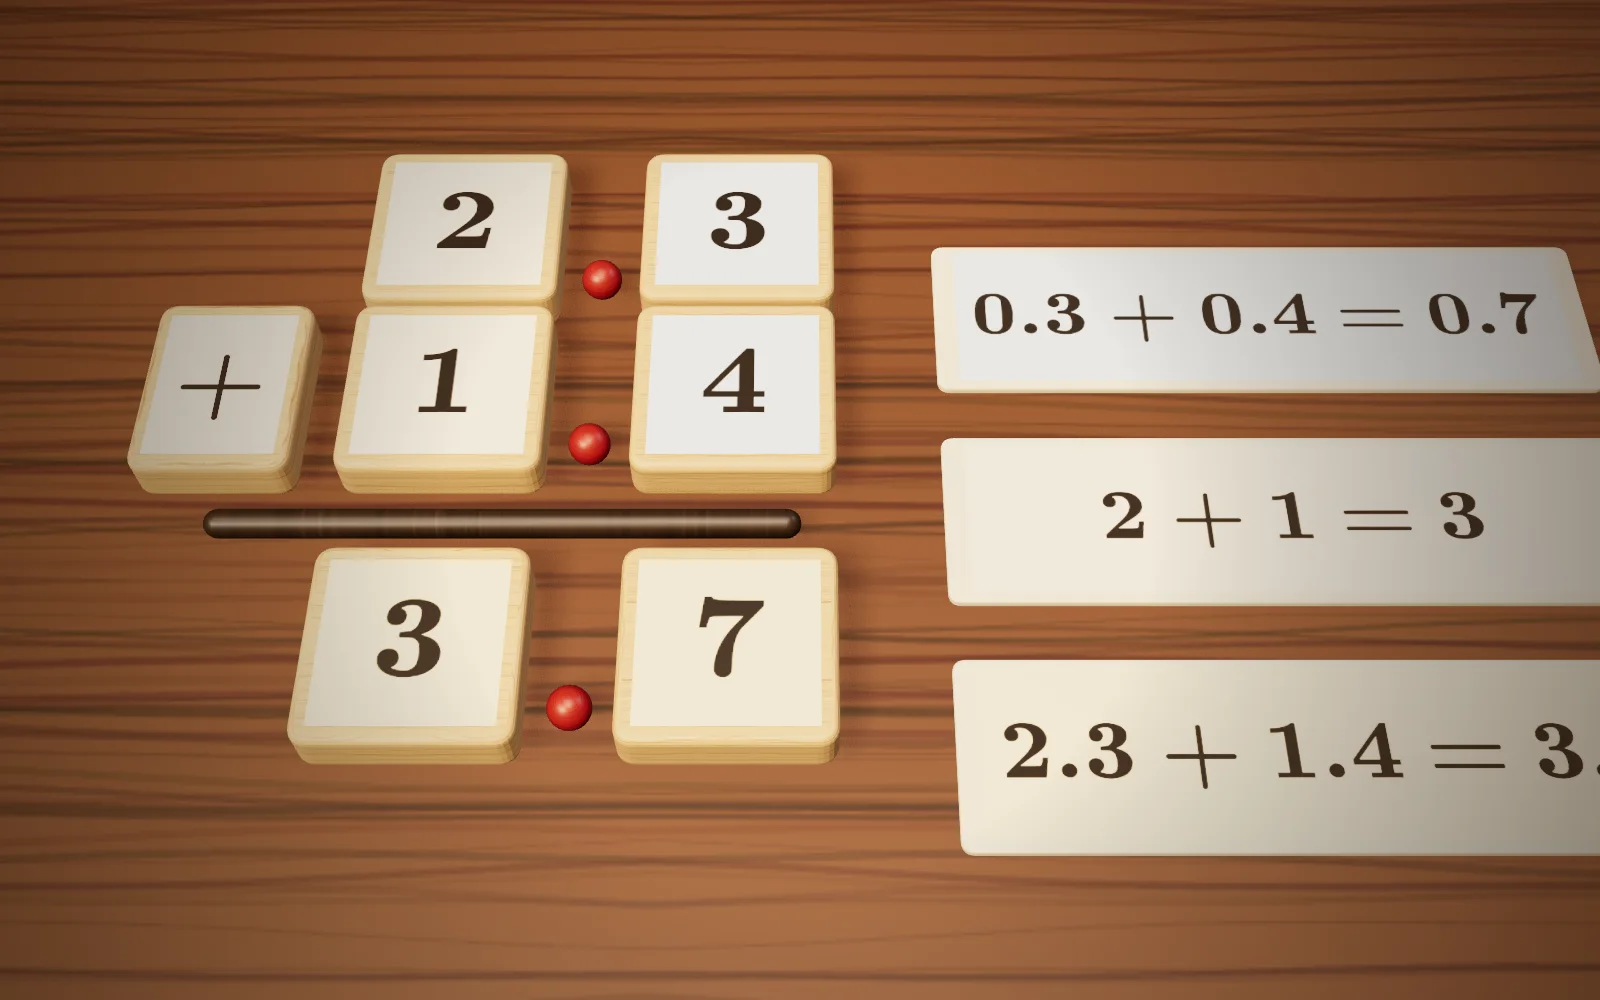
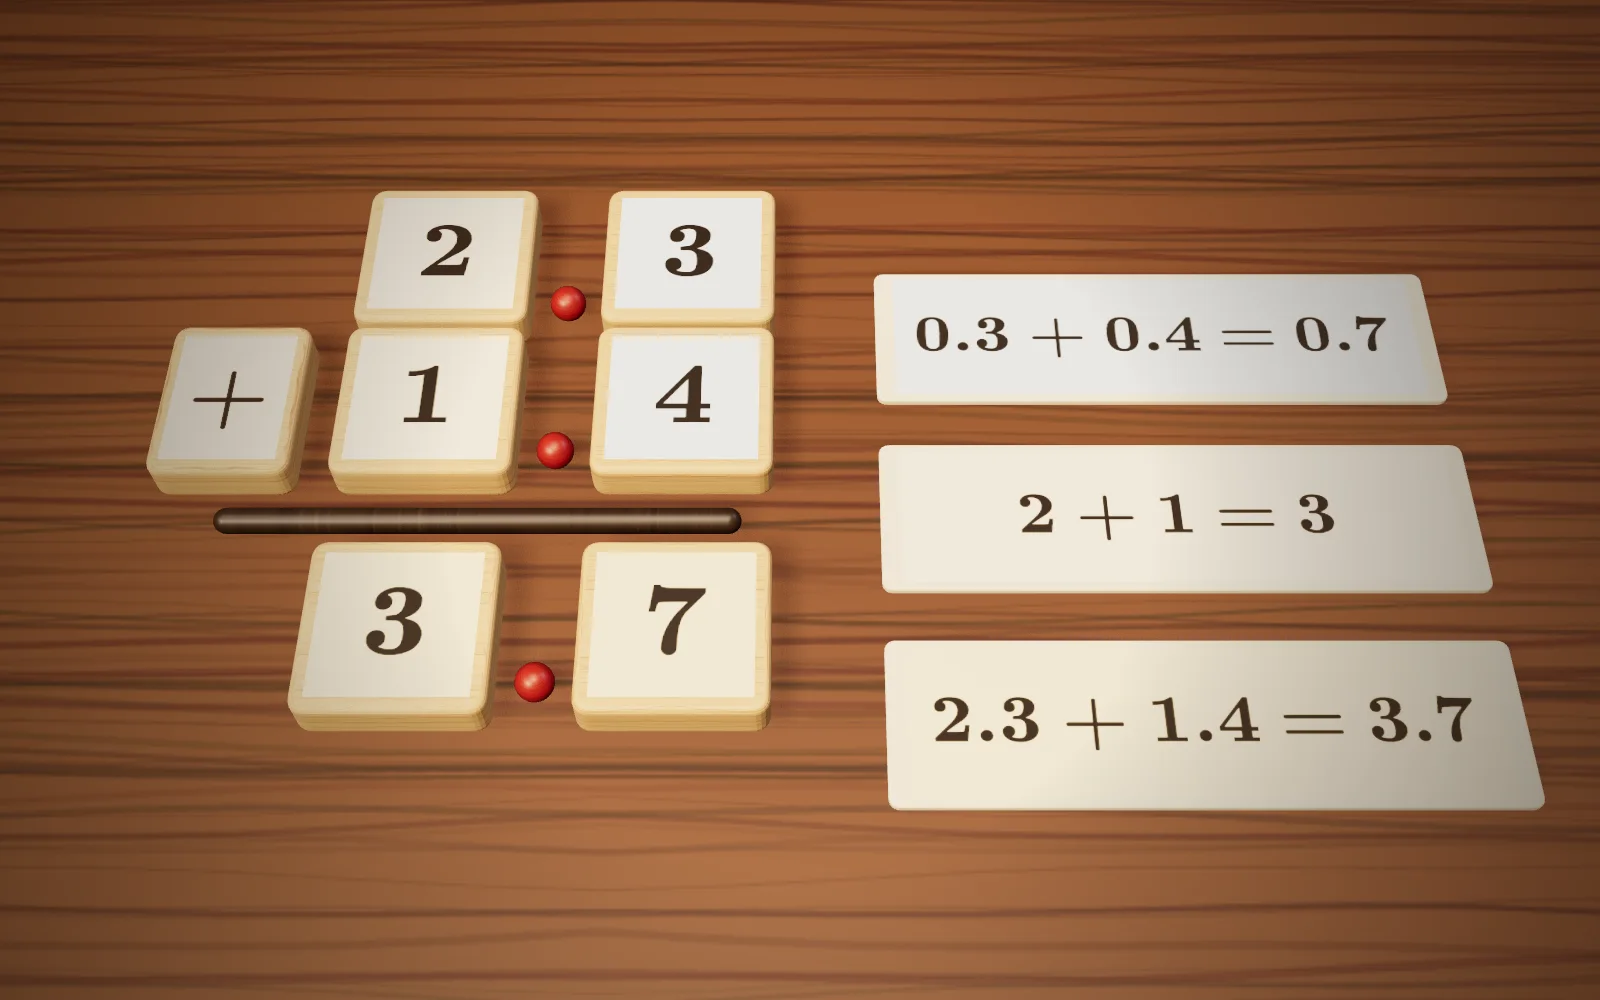
수의 마법 — 초등 대표 3D 장면 E3(과정 17~24) 완료, 초등 24개 포함 3D 대표 그림 124개
Claude-Session: https://claude.ai/code/session_01T6HCktzZTCy63PeQAnPr61

diff --git a/number_magic/app/hero3d/scenes-e3.js b/number_magic/app/hero3d/scenes-e3.js
@@ -22,7 +22,7 @@ export const SCENES_E3 = {
   ]},
     build(k){
     const { THREE, scene } = k;
-    k.frame([0.5, 0, -0.35], 5.4, 58);
+    k.frame([0.75, 0, -0.35], 6.1, 58);
     k.table();
     /* 세로셈: 자연수 칸(x=-0.85)·소수점(구슬, x=-0.3)·소수 칸(x=0.25) */
     const XW = -0.85, XP = -0.3, XT = 0.25, ZS = [-1.55, -0.75, 0.35], TO = { w:0.72, d:0.72, h:0.2, fs:0.46 };
@@ -35,9 +35,9 @@ export const SCENES_E3 = {
     k.rod(k.lacquer('#3a2a1e'), -0.6, -0.2, 0);                     /* 세로셈의 가로줄 */
     const w3 = tileF(k, '3', XW, ZS[2], Object.assign({}, TO, ans)), t3 = tileF(k, '7', XT, ZS[2], Object.assign({}, TO, tenth, ans)); point(ZS[2]);
     /* 오른쪽: 부분 덧셈 카드 */
-    const cT = cardF(k, ['0.3 + 0.4 = 0.7'], 2.35, -1.2, { w:2.6, d:0.7, fs:0.32, bg:'#dbe7f2' });
-    const cW = cardF(k, ['2 + 1 = 3'], 2.35, -0.25, { w:2.6, d:0.7, fs:0.32 });
-    const cA = cardF(k, ['2.3 + 1.4 = 3.7'], 2.35, 0.7, { w:2.6, d:0.7, fs:0.32, bg:'#f1e0b8' });
+    const cT = cardF(k, ['0.3 + 0.4 = 0.7'], 2.35, -1.2, { w:2.5, d:0.7, fs:0.3, bg:'#dbe7f2' });
+    const cW = cardF(k, ['2 + 1 = 3'], 2.35, -0.25, { w:2.5, d:0.7, fs:0.3 });
+    const cA = cardF(k, ['2.3 + 1.4 = 3.7'], 2.35, 0.7, { w:2.5, d:0.7, fs:0.3, bg:'#f1e0b8' });
     /* 움직임: 소수 칸 3·4 → 0.7 카드·답 7 → 자연수 칸 2·1 → 2+1=3 카드·답 3 → 답 줄 전체 */
     k.onFrame(t => { const p = cyc(t, 8);
       t1.position.y = 0.2 * hop(p, 0.14, 0.26); t2.position.y = 0.2 * hop(p, 0.18, 0.3);
@@ -62,7 +62,7 @@ export const SCENES_E3 = {
     /* 자리 칸: 일(x=-0.85) · 소수 첫째(0) · 소수 둘째(0.85). 소수점은 붉은 구슬 */
     const XS = [-0.85, 0, 0.85], TO = { w:0.72, d:0.8, h:0.22, fs:0.5 }, Z1 = -1.35, Z2 = -0.3;
     const bead = k.lacquer('#9b2a1c');
-    const point = (x, z) => { const m = new THREE.Mesh(new THREE.SphereGeometry(0.09, 24, 16), bead); m.castShadow = true; m.position.set(x, 0.09, z + 0.26); scene.add(m); return m; };
+    const point = (x, z) => { const m = new THREE.Mesh(new THREE.SphereGeometry(0.11, 24, 16), bead); m.castShadow = true; m.position.set(x, 0.11, z + 0.3); scene.add(m); return m; };
     tileF(k, '4', XS[0], Z1, TO); tileF(k, '3', XS[1], Z1, TO);
     const p1 = point(-0.425, Z1);
     const zeros = [tileF(k, '0', XS[0], Z2, Object.assign({}, TO, { bg:'#e6dcc8', color:'#7a6a55' })), tileF(k, '0', XS[1], Z2, Object.assign({}, TO, { bg:'#e6dcc8', color:'#7a6a55' }))];
@@ -73,10 +73,10 @@ export const SCENES_E3 = {
     /* 움직임: 구슬이 43. 자리로 갔다가 한 칸 스키 → 4.3 / 7. 자리로 갔다가 두 칸 스키, 지나가며 0 이 채워짐 → 0.07 */
     k.onFrame(t => { const p = cyc(t, 8);
       const u1 = seg(p, 0.03, 0.12) * (1 - seg(p, 0.18, 0.32));
-      p1.position.x = -0.425 + 0.85 * u1; p1.position.y = 0.09 + 0.25 * hop(p, 0.18, 0.32);
+      p1.position.x = -0.425 + 0.85 * u1; p1.position.y = 0.11 + 0.25 * hop(p, 0.18, 0.32);
       c1.position.y = 0.16 * hop(p, 0.32, 0.44);
       const u2 = seg(p, 0.36, 0.44) * (1 - seg(p, 0.5, 0.72));
-      p2.position.x = -0.425 + 1.7 * u2; p2.position.y = 0.09 + 0.25 * hop(p, 0.5, 0.72);
+      p2.position.x = -0.425 + 1.7 * u2; p2.position.y = 0.11 + 0.25 * hop(p, 0.5, 0.72);
       zeros.forEach((z, i) => { const s = 1 - seg(u2, i ? 0.15 : 0.55, i ? 0.45 : 0.9); z.scale.setScalar(Math.max(0.001, s)); });
       c2.position.y = 0.16 * hop(p, 0.74, 0.86); });
     k.lights(Object.assign({}, LIGHT, { spotAt:[0, 0, -0.3] }));
@@ -90,7 +90,7 @@ export const SCENES_E3 = {
     [0.72, "$2\\times50$, $5\\times20$도 $100$, $8\\times125$는 $1000$이에요.", "$2\\times50$ and $5\\times20$ make $100$ too, and $8\\times125=1000$.", "$2\\times50$、$5\\times20$也是$100$，$8\\times125$是$1000$。"]
   ]},
     build(k){
-    k.frame([0, 0, -0.2], 5.8, 58);
+    k.frame([0, 0, -0.2], 6.3, 58);
     k.table();
     /* 뒷줄: 블록 4 × 7 × 25 — 황금 쌍 4·25 는 금빛 옆면 */
     const gold = k.metal('#c9a24a', 0.35), BZ = -1.45, BO = { h:0.26, d:0.85, fs:0.46 };
@@ -103,7 +103,7 @@ export const SCENES_E3 = {
     const eq = cardF(k, ['(4 × 25) × 7 = 100 × 7 = 700'], 0, -0.25, { w:5.0, d:0.75, fs:0.32, bg:'#f1e0b8' });
     /* 앞줄: 황금 쌍 카드 */
     const pairs = ['4 × 25 = 100', '2 × 50 = 100', '5 × 20 = 100', '8 × 125 = 1000'].map((s, i) =>
-      cardF(k, [s], -2.1 + i * 1.4, 0.85, { w:1.3, d:0.62, fs:0.18, bg:i ? '#efe3c8' : '#f6e3a8' }));
+      cardF(k, [s], -2.25 + i * 1.5, 0.85, { w:1.42, d:0.62, fs:0.165, bg:i ? '#efe3c8' : '#f6e3a8' }));
     /* 움직임: 4·25 블록이 들려 서로 다가갔다 돌아옴(쌍 만들기) → 식 카드 → 황금 쌍 카드 차례로 */
     const x4 = b4.position.x, x25 = b25.position.x;
     k.onFrame(t => { const p = cyc(t, 8);
@@ -159,7 +159,7 @@ export const SCENES_E3 = {
     [0.66, "$15$칸 중 $8$칸, 그래서 $\\dfrac{2}{3}\\times\\dfrac{4}{5}=\\dfrac{8}{15}$이에요.", "$8$ of $15$ squares, so $\\dfrac{2}{3}\\times\\dfrac{4}{5}=\\dfrac{8}{15}$.", "$15$格中的$8$格，所以$\\dfrac{2}{3}\\times\\dfrac{4}{5}=\\dfrac{8}{15}$。"]
   ]},
     build(k){
-    k.frame([0, 0, -0.2], 5.4, 58);
+    k.frame([0, 0, -0.6], 5.4, 60);
     k.table();
     /* 3줄 × 5칸 블록판. 위 2줄(2/3)은 연한 주황, 그중 왼쪽 4칸(8칸)은 진한 주황 */
     const S = 0.62, X0 = -0.3 - 2 * S, Z0 = -1.65;
@@ -170,7 +170,7 @@ export const SCENES_E3 = {
       tiles.push({ r, c, g:k.tile(null, X0 + c * S, Z0 + r * S, { w:S - 0.06, d:S - 0.06, h:0.18, side }) }); }
     /* 가장자리 분수: 줄 옆 2/3, 칸 아래 4/5 */
     cardF(k, [{ n:'2', d:'3' }], X0 + 5 * S + 0.2, Z0 + 0.5 * S, { w:0.6, d:0.95, fs:0.3, bg:'#f5dcb8' });
-    cardF(k, [{ n:'4', d:'5' }], X0 - S - 0.05, Z0 + 0.5 * S, { w:0.6, d:0.95, fs:0.3, bg:'#f3c6a4' });
+    cardF(k, [{ n:'4', d:'5' }], X0 + 1.5 * S, Z0 - 0.82, { w:0.62, d:0.9, fs:0.3, bg:'#f3c6a4' });
     const eq = cardF(k, [{ n:'2', d:'3' }, '×', { n:'4', d:'5' }, '=', { n:'2 × 4', d:'3 × 5' }, '=', { n:'8', d:'15' }], 0, 0.8, { w:4.4, d:1.0, fs:0.3, bg:'#f1e0b8' });
     /* 움직임: 위 2줄 → 진한 8칸 → 식 카드 */
     k.onFrame(t => { const p = cyc(t, 8);
@@ -248,7 +248,7 @@ export const SCENES_E3 = {
   ]},
     build(k){
     const { THREE, scene } = k;
-    k.frame([0, 0.55, -0.1], 5.6, 34);
+    k.frame([0.25, 0.85, -0.25], 6.6, 36);
     k.table();
     /* 지구본: 받침 + 금속 고리 + 바다·땅 무늬 공 */
     const GC = new THREE.Vector3(-0.9, 1.35, -0.9), GR = 0.95;
@@ -276,14 +276,14 @@ export const SCENES_E3 = {
     const stem = new THREE.Mesh(new THREE.CylinderGeometry(0.05, 0.07, GC.y - GR - 0.05, 16), wood); stem.position.set(GC.x, (GC.y - GR - 0.05) / 2 + 0.06, GC.z); stem.castShadow = true; scene.add(stem);
     const foot = new THREE.Mesh(new THREE.CylinderGeometry(0.45, 0.5, 0.1, 48), wood); foot.position.set(GC.x, 0.05, GC.z); foot.castShadow = foot.receiveShadow = true; scene.add(foot);
     /* 해: 오른쪽 위 빛나는 공 + 나란한 햇살 */
-    const sun = new THREE.Mesh(new THREE.SphereGeometry(0.32, 40, 24), new THREE.MeshBasicMaterial({ color:new THREE.Color('#ffd27a').multiplyScalar(1.6) }));
-    sun.position.set(2.5, 1.95, -1.1); scene.add(sun);
+    const sun = new THREE.Mesh(new THREE.SphereGeometry(0.32, 40, 24), new THREE.MeshBasicMaterial({ color:'#ffc23a', toneMapped:false }));
+    sun.position.set(2.45, 1.9, -1.0); scene.add(sun);
     const rayM = new THREE.MeshBasicMaterial({ color:'#ffd98a', transparent:true, opacity:0.55, depthWrite:false });
     const rays = [1.35, 1.65, 1.95, 2.25].map(y => { const r = new THREE.Mesh(new THREE.CylinderGeometry(0.012, 0.012, 2.0, 8), rayM.clone());
       r.rotation.z = Math.PI / 2; r.position.set(1.15, y - 0.25, -0.75); scene.add(r); return r; });
     /* 앞줄: 식 카드 */
-    const c1 = cardF(k, ['7.2° × 50 = 360°'], -1.2, 1.1, { w:2.6, d:0.7, fs:0.3, bg:'#f1e0b8' });
-    const c2 = cardF(k, ['800 × 50 = 40000'], 1.45, 1.1, { w:2.6, d:0.7, fs:0.3, bg:'#f1e0b8' });
+    const c1 = cardF(k, ['7.2° × 50 = 360°'], -1.35, 1.0, { w:2.6, d:0.8, fs:0.26, bg:'#f1e0b8' });
+    const c2 = cardF(k, ['800 × 50 = 40000'], 1.35, 1.0, { w:2.6, d:0.8, fs:0.26, bg:'#f1e0b8' });
     /* 움직임: 지구본이 살짝 돌았다 돌아오고, 햇살이 반짝 → 7.2° 카드 → 800 × 50 카드 */
     k.onFrame(t => { const p = cyc(t, 8);
       globe.rotation.y = -0.25 * Math.sin(Math.PI * 2 * p) * (1 - seg(p, 0.5, 1)) ;

diff --git a/number_magic/data/hero3d.js b/number_magic/data/hero3d.js
@@ -122,4 +122,12 @@ window.NM_HERO3D = {
   'A-13': { alt:{ ko:"백 모형 판 3개 옆에, 떼어 낸 100이 십 모형 6개와 일 모형 5개로 남아 있고, 빼낸 35는 오른쪽 끝에 있어요. 아래에는 400 − 35, 300 + 100 − 35, 300 + 65 = 365 카드가 있어요.", en:"Next to three hundreds flats, the broken-off 100 remains as six tens rods and five unit cubes, while the 35 taken away sits at the far right, above cards 400 − 35, 300 + 100 − 35 and 300 + 65 = 365.", zh:"3块百位板旁边，拿出的100剩下6根十位条和5个个位块，减去的35放在最右边，下面是400 − 35、300 + 100 − 35、300 + 65 = 365的卡片。" } },
   'A-18': { alt:{ ko:"위 줄에는 357(백 모형 3, 십 모형 5, 일 모형 7), 아래 줄에는 468(백 모형 4, 십 모형 6, 일 모형 8)이 놓여 있어요. 옆에는 357 + 468, 300 + 400 = 700, 700 + 110 = 810, 810 + 15 = 825 카드가 있어요.", en:"Base-ten blocks show 357 (3 flats, 5 rods, 7 cubes) on top and 468 (4 flats, 6 rods, 8 cubes) below, beside cards 357 + 468, 300 + 400 = 700, 700 + 110 = 810 and 810 + 15 = 825.", zh:"上排是357（3块百位板、5根十位条、7个个位块），下排是468（4块、6根、8个），旁边是357 + 468、300 + 400 = 700、700 + 110 = 810、810 + 15 = 825的卡片。" } },
   'A-30': { alt:{ ko:"왼쪽 종이에는 남은 322(백 모형 3, 십 모형 2, 일 모형 2), 오른쪽 종이에는 빼낸 241(백 모형 2, 십 모형 4, 일 모형 1)이 있어요. 아래에는 563 − 241, 500 − 200 = 300, 300 + 60 − 40 = 320, 320 + 3 − 1 = 322 카드가 있어요.", en:"The left sheet keeps 322 (3 flats, 2 rods, 2 cubes) and the right sheet holds the 241 taken away (2 flats, 4 rods, 1 cube), above cards 563 − 241, 500 − 200 = 300, 300 + 60 − 40 = 320 and 320 + 3 − 1 = 322.", zh:"左边纸上剩下322（3块百位板、2根十位条、2个个位块），右边纸上是减去的241（2块、4根、1个），下面是563 − 241、500 − 200 = 300、300 + 60 − 40 = 320、320 + 3 − 1 = 322的卡片。" } },
+  'A-36': { alt:{ ko:"나무 블록으로 2.3과 1.4를 세로셈으로 놓고, 소수점 자리에 빨간 구슬을 두었어요. 가로줄 아래에 답 3.7이 있고, 오른쪽 카드에는 0.3 + 0.4 = 0.7, 2 + 1 = 3, 2.3 + 1.4 = 3.7이 적혀 있어요.", en:"Wooden blocks set up 2.3 + 1.4 as column addition, with red beads as decimal points and the answer 3.7 below a rod. Cards on the right read 0.3 + 0.4 = 0.7, 2 + 1 = 3 and 2.3 + 1.4 = 3.7.", zh:"木块把2.3和1.4摆成竖式，红珠子是小数点，横杆下面是答案3.7。右边卡片写着0.3 + 0.4 = 0.7、2 + 1 = 3、2.3 + 1.4 = 3.7。" } },
+  'C-25': { alt:{ ko:"숫자 블록 4, 3 사이와 0, 0, 7 중 첫 0 뒤에 빨간 구슬 소수점이 있어 4.3과 0.07을 보여 줘요. 앞쪽 카드에는 43 × 0.1 = 4.3과 7 × 0.01 = 0.07이 있어요.", en:"A red bead acting as the decimal point sits between blocks 4 and 3, and after the first 0 in 0, 0, 7, showing 4.3 and 0.07. Cards in front read 43 × 0.1 = 4.3 and 7 × 0.01 = 0.07.", zh:"红珠子当作小数点，放在数字块4和3之间，以及0、0、7的第一个0后面，表示4.3和0.07。前面的卡片写着43 × 0.1 = 4.3和7 × 0.01 = 0.07。" } },
+  'C-04': { alt:{ ko:"블록 4 × 7 × 25가 놓여 있고, 황금 쌍인 4와 25는 금빛 블록이에요. 가운데 카드에는 (4 × 25) × 7 = 100 × 7 = 700, 앞줄 카드에는 4 × 25 = 100, 2 × 50 = 100, 5 × 20 = 100, 8 × 125 = 1000이 있어요.", en:"Blocks show 4 × 7 × 25, with the golden pair 4 and 25 in gold. The middle card reads (4 × 25) × 7 = 100 × 7 = 700, and the front cards read 4 × 25 = 100, 2 × 50 = 100, 5 × 20 = 100 and 8 × 125 = 1000.", zh:"木块摆出4 × 7 × 25，黄金搭档4和25是金色的。中间卡片写着(4 × 25) × 7 = 100 × 7 = 700，前排卡片写着4 × 25 = 100、2 × 50 = 100、5 × 20 = 100、8 × 125 = 1000。" } },
+  'C-22': { alt:{ ko:"분수 원판 세 개가 있어요. 반쪽이 빨간 원판, 3분의 1쪽이 파란 원판, 그리고 6조각 중 빨강 3조각과 파랑 2조각이 칠해진 원판이에요. 아래 카드에는 2분의 1 + 3분의 1 = 6분의 3 + 6분의 2 = 6분의 5가 있어요.", en:"Three fraction discs: one with a red half, one with a blue third, and one cut into 6 with 3 red and 2 blue pieces. The card below reads 1 over 2 + 1 over 3 = 3 over 6 + 2 over 6 = 5 over 6.", zh:"三个分数圆盘：一个红色的一半，一个蓝色的三分之一，还有一个切成6块，其中3块红、2块蓝。下面的卡片写着2分之1 + 3分之1 = 6分之3 + 6分之2 = 6分之5。" } },
+  'C-31': { alt:{ ko:"3줄 5칸 블록판에서 위 2줄이 주황색이고, 그중 왼쪽 4칸씩 모두 8칸이 진한 주황이에요. 옆에 3분의 2, 위에 5분의 4 카드가 있고, 아래 카드에는 3분의 2 × 5분의 4 = 15분의 8이 있어요.", en:"A 3-by-5 board of blocks: the top 2 rows are orange, and 8 blocks, the left 4 of each of those rows, are dark orange. Cards show 2 over 3 at the side and 4 over 5 on top, and the card below reads 2 over 3 × 4 over 5 = 8 over 15.", zh:"3行5列的木块板，上面2行是橙色，其中每行左边4块、共8块是深橙色。旁边有3分之2的卡片，上面有5分之4的卡片，下面的卡片写着3分之2 × 5分之4 = 15分之8。" } },
+  'C-32': { alt:{ ko:"블록 600 + 40 + 35 아래에 600 ÷ 4 = 150, 40 ÷ 4 = 10, 35 ÷ 4 = 8.75 카드가 있어요. 맨 앞 카드에는 675 ÷ 4 = 4분의 675 = 168.75가 있어요.", en:"Below the blocks 600 + 40 + 35 are cards reading 600 ÷ 4 = 150, 40 ÷ 4 = 10 and 35 ÷ 4 = 8.75. The front card reads 675 ÷ 4 = 675 over 4 = 168.75.", zh:"木块600 + 40 + 35下面是卡片600 ÷ 4 = 150、40 ÷ 4 = 10、35 ÷ 4 = 8.75。最前面的卡片写着675 ÷ 4 = 4分之675 = 168.75。" } },
+  'C-05': { alt:{ ko:"나무 쟁반에 구슬 16개가 4×4로 놓여 있어요. 빨강 1개, 노랑 3개, 초록 5개, 파랑 7개가 ㄱ자로 둘러 붙어 있어요. 오른쪽 카드에는 1 = 1 × 1부터 1 + 3 + 5 + 7 = 4 × 4까지 있어요.", en:"Sixteen beads sit in a 4-by-4 square on a wooden tray, wrapped in corner-shaped layers: 1 red, 3 yellow, 5 green and 7 blue. Cards on the right go from 1 = 1 × 1 to 1 + 3 + 5 + 7 = 4 × 4.", zh:"木托盘上16颗珠子排成4×4，按拐角一层层围起来：1颗红、3颗黄、5颗绿、7颗蓝。右边卡片从1 = 1 × 1写到1 + 3 + 5 + 7 = 4 × 4。" } },
+  'H-12': { alt:{ ko:"지구본 위에 두 도시를 나타내는 막대 두 개가 꽂혀 있고, 오른쪽의 해에서 나란한 햇살이 비쳐요. 앞쪽 카드에는 7.2° × 50 = 360°와 800 × 50 = 40000이 있어요.", en:"A globe has two sticks marking two cities, and parallel sunbeams come from a sun on the right. Cards in front read 7.2° × 50 = 360° and 800 × 50 = 40000.", zh:"地球仪上插着两根代表两座城市的小棒，右边的太阳射来平行的光线。前面的卡片写着7.2° × 50 = 360°和800 × 50 = 40000。" } },
 };
